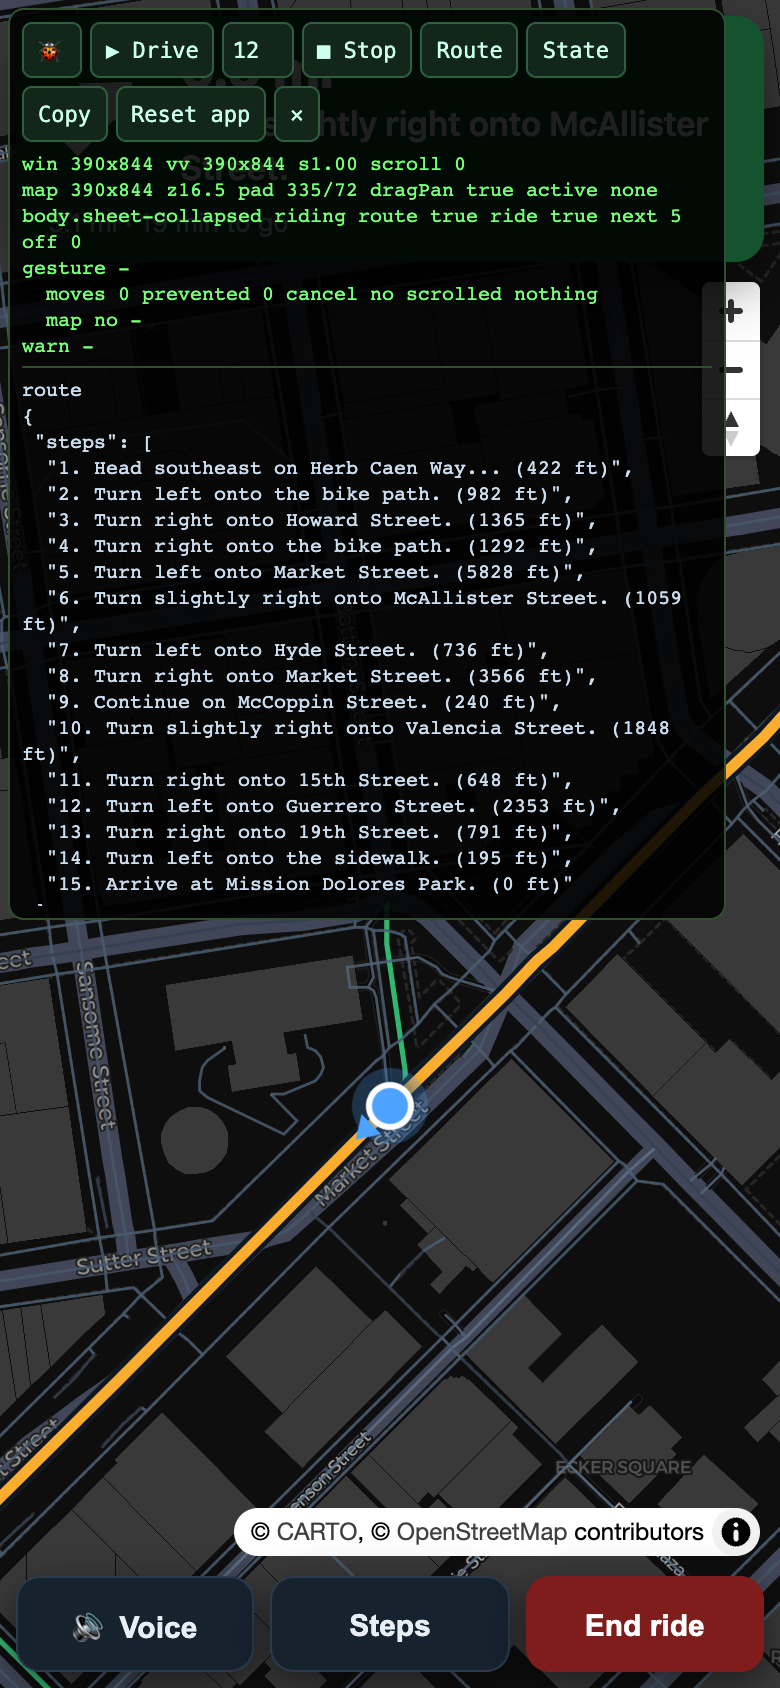
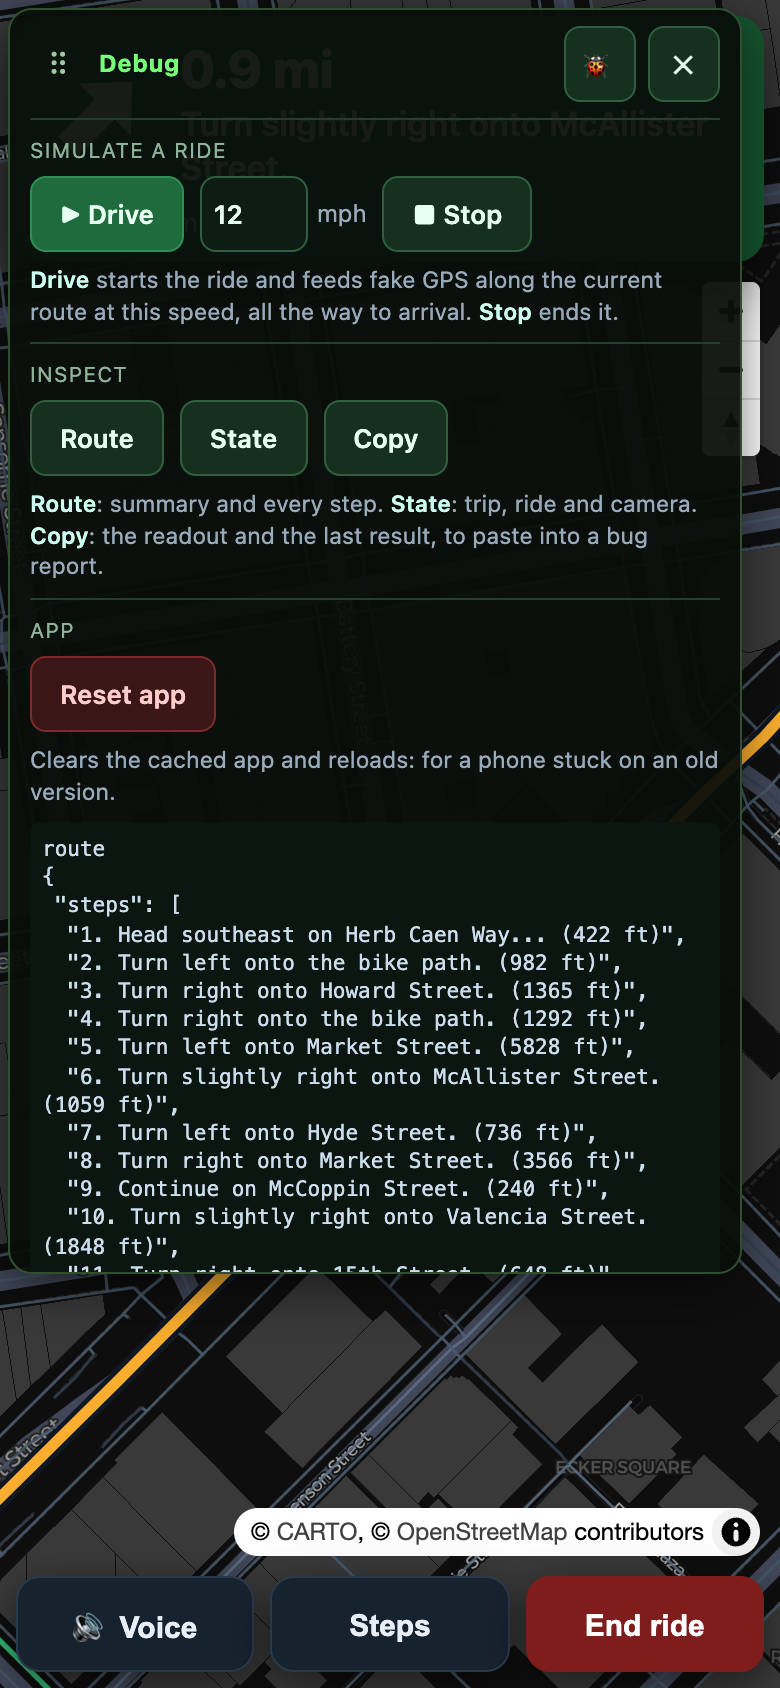
Debug panel: grouped, explained, roomier
The tools are grouped into sections with a caption and a line saying what
each button does: Simulate a ride (Drive, mph, Stop together), Inspect
(Route, State, Copy) and App (Reset app, styled as the one that reloads).
A header carries the grip, a title, minimize and close; bigger buttons with
more space between them; the live readout is collapsible; sections no
longer shrink (the panel scrolls), which had squeezed results to one line.

Changed region(s): [[0.0, 0.0, 0.9846, 0.7701], [0.5231, 0.0, 0.6769, 0.0616]]

diff --git a/web/debug.js b/web/debug.js
@@ -54,26 +54,40 @@
   // expand button stay, so it can still be moved out of the map's way.
   const PANEL_CSS = `
 #pev-debug-hud { position: fixed; left: 4px; top: calc(env(safe-area-inset-top) + 4px); z-index: 99999;
-  width: min(92vw, 430px); max-height: 70vh; display: flex; flex-direction: column; gap: 4px; padding: 6px;
-  background: rgba(0, 0, 0, 0.88); color: #7f7; font: 10px/1.3 ui-monospace, Menlo, monospace;
-  border: 1px solid #2f4f2f; border-radius: 8px; }
-#pev-debug-hud.min { width: auto; }
-#pev-debug-hud.min > :not(.pev-dbg-bar),
-#pev-debug-hud.min .pev-dbg-bar > :not(.pev-dbg-min):not(.pev-dbg-grip) { display: none; }
-#pev-debug-hud .pev-dbg-bar { display: flex; flex-wrap: wrap; gap: 4px; align-items: center; padding-right: 34px; }
-#pev-debug-hud.min .pev-dbg-bar { padding-right: 0; }
-/* Close sits in the panel's top-right corner, apart from the tools. */
-#pev-debug-hud .pev-dbg-close { position: absolute; top: 6px; right: 6px; min-width: 28px; padding: 4px 0; }
-#pev-debug-hud button, #pev-debug-hud input { font: 11px ui-monospace, Menlo, monospace; color: #cfe; background: #12261a;
-  border: 1px solid #2f5f3f; border-radius: 5px; padding: 4px 7px; min-height: 28px; }
-#pev-debug-hud input { width: 3.2em; padding: 4px; }
-#pev-debug-hud button:active { background: #234; }
-#pev-debug-hud pre { margin: 0; white-space: pre-wrap; overflow: auto; }
-#pev-debug-hud .pev-dbg-out { color: #cde; border-top: 1px solid #2f4f2f; padding-top: 4px; max-height: 32vh; }
-#pev-debug-hud .pev-dbg-readout { pointer-events: none; }
+  width: min(94vw, 400px); max-height: 75vh; overflow: auto; display: flex; flex-direction: column; gap: 8px;
+  padding: 8px 10px 10px; box-sizing: border-box;
+  background: rgba(8, 14, 10, 0.94); color: #cfe; font: 12px/1.35 -apple-system, system-ui, sans-serif;
+  border: 1px solid #2f4f2f; border-radius: 12px; box-shadow: 0 8px 24px rgba(0, 0, 0, 0.5); }
+/* Sections keep their height; the panel scrolls when they don't fit. */
+#pev-debug-hud > * { flex-shrink: 0; }
+#pev-debug-hud.min { width: auto; padding: 6px; }
+#pev-debug-hud.min > :not(.pev-dbg-head),
+#pev-debug-hud.min .pev-dbg-title, #pev-debug-hud.min .pev-dbg-close { display: none; }
+/* Header: grip, title, minimize, and close in the top-right corner. */
+#pev-debug-hud .pev-dbg-head { display: flex; align-items: center; gap: 6px; }
+#pev-debug-hud .pev-dbg-title { flex: 1; font-weight: 700; color: #7f7; letter-spacing: 0.3px; }
 #pev-debug-hud .pev-dbg-grip { cursor: grab; touch-action: none; user-select: none; -webkit-user-select: none;
-  color: #9c9; font-size: 16px; line-height: 1; padding: 4px 6px; border-radius: 5px; }
-#pev-debug-hud.dragging .pev-dbg-grip { cursor: grabbing; background: #234; }`;
+  color: #9c9; font-size: 18px; line-height: 1; padding: 6px 8px; border-radius: 6px; }
+#pev-debug-hud.dragging .pev-dbg-grip { cursor: grabbing; background: #234; }
+#pev-debug-hud .pev-dbg-min, #pev-debug-hud .pev-dbg-close { min-width: 36px; padding: 0; }
+/* Sections: a caption, the buttons, and one line saying what they do. */
+#pev-debug-hud section { border-top: 1px solid #23402b; padding-top: 8px; }
+#pev-debug-hud .pev-dbg-cap { font-size: 10.5px; text-transform: uppercase; letter-spacing: 0.6px; color: #8fb39a; margin-bottom: 6px; }
+#pev-debug-hud .pev-dbg-row { display: flex; flex-wrap: wrap; gap: 8px; align-items: center; }
+#pev-debug-hud .pev-dbg-help { margin-top: 6px; color: #9ab; font-size: 11.5px; }
+#pev-debug-hud .pev-dbg-help b { color: #cfe; font-weight: 600; }
+#pev-debug-hud button { font: 600 13px -apple-system, system-ui, sans-serif; color: #e6fff0; background: #16301f;
+  border: 1px solid #2f5f3f; border-radius: 8px; padding: 0 14px; min-height: 38px; cursor: pointer; }
+#pev-debug-hud button:active { background: #24503a; }
+#pev-debug-hud .pev-dbg-go { background: #1f6b3d; border-color: #2f8f55; }
+#pev-debug-hud .pev-dbg-danger { background: #3a1616; border-color: #7f2a2a; color: #fcc; }
+#pev-debug-hud label.pev-dbg-speed { display: inline-flex; align-items: center; gap: 4px; color: #9ab; }
+#pev-debug-hud input { font: 600 13px -apple-system, system-ui, sans-serif; color: #e6fff0; background: #0e1d14;
+  border: 1px solid #2f5f3f; border-radius: 8px; width: 4.2em; min-height: 38px; padding: 0 6px; box-sizing: border-box; }
+#pev-debug-hud details summary { cursor: pointer; }
+#pev-debug-hud pre { margin: 0; white-space: pre-wrap; overflow: auto; font: 10.5px/1.35 ui-monospace, Menlo, monospace; }
+#pev-debug-hud .pev-dbg-readout { color: #7f7; pointer-events: none; margin-top: 6px; }
+#pev-debug-hud .pev-dbg-out { color: #cde; background: #0b1610; border-radius: 6px; padding: 6px; max-height: 30vh; }`;
 
   let output = null; // the panel's output box
   function show(title, value) {
@@ -92,56 +106,96 @@
       style.textContent = PANEL_CSS;
       document.head.appendChild(style);
     }
-    const panel = document.createElement("div");
-    panel.id = "pev-debug-hud";
-    panel.setAttribute("role", "region");
-    panel.setAttribute("aria-label", "Debug panel");
-    const bar = document.createElement("div");
-    bar.className = "pev-dbg-bar";
+    const el = (tag, cls, text) => {
+      const n = document.createElement(tag);
+      if (cls) n.className = cls;
+      if (text != null) n.textContent = text;
+      return n;
+    };
     const button = (label, title, fn, cls) => {
-      const b = document.createElement("button");
+      const b = el("button", cls, label);
       b.type = "button";
-      b.textContent = label;
       b.title = title;
-      if (cls) b.className = cls;
       b.addEventListener("click", (e) => {
         e.stopPropagation();
         fn();
       });
-      bar.appendChild(b);
       return b;
     };
-    const mph = document.createElement("input");
+    // One group of tools: caption, buttons, and what they do.
+    const section = (caption, controls, help) => {
+      const sec = el("section");
+      const row = el("div", "pev-dbg-row");
+      row.append(...controls);
+      const h = el("div", "pev-dbg-help");
+      h.innerHTML = help;
+      sec.append(el("div", "pev-dbg-cap", caption), row, h);
+      return sec;
+    };
+
+    const panel = el("div");
+    panel.id = "pev-debug-hud";
+    panel.setAttribute("role", "region");
+    panel.setAttribute("aria-label", "Debug panel");
+
+    const grip = el("span", "pev-dbg-grip", "⠿");
+    grip.title = "Drag to move the panel";
+    grip.setAttribute("aria-hidden", "true");
+    const head = el("div", "pev-dbg-head");
+    head.append(
+      grip,
+      el("span", "pev-dbg-title", "Debug"),
+      button("🐞", "Minimize / expand the panel", () => {
+        panel.classList.toggle("min");
+        placePanel(panel); // a wider panel may now run off the screen
+      }, "pev-dbg-min"),
+      button("✕", "Close the panel", () => window.pev.hud(false), "pev-dbg-close")
+    );
+
+    const mph = el("input");
     mph.type = "number";
     mph.min = "1";
     mph.max = "200";
     mph.value = "12";
-    mph.title = "Simulated speed (mph)";
+    mph.inputMode = "numeric";
     mph.setAttribute("aria-label", "Simulated speed in mph");
-    const grip = document.createElement("span");
-    grip.className = "pev-dbg-grip";
-    grip.textContent = "⠿";
-    grip.title = "Drag to move the panel";
-    grip.setAttribute("aria-hidden", "true");
-    bar.appendChild(grip);
-    button("🐞", "Minimize / expand the panel", () => {
-      panel.classList.toggle("min");
-      placePanel(panel); // a wider panel may now run off the screen
-    }, "pev-dbg-min");
-    button("▶ Drive", "Ride the current route with simulated GPS", () => show("drive", drive(Number(mph.value) || 12)));
-    bar.appendChild(mph);
-    button("■ Stop", "Stop the simulated drive", () => show("stop", stop() || "Stopped."));
-    button("Route", "Current route summary and steps", () => show("route", route(true)));
-    button("State", "App, ride and camera snapshot", () => show("state", snapshot()));
-    button("Copy", "Copy the readout and the last result", () => copy(panel));
-    button("Reset app", "Drop the service worker and caches, then reload", () => resetApp());
-    button("✕", "Close the panel", () => window.pev.hud(false), "pev-dbg-close");
-    const readout = document.createElement("pre");
-    readout.className = "pev-dbg-readout";
-    output = document.createElement("pre");
-    output.className = "pev-dbg-out";
+    const speed = el("label", "pev-dbg-speed");
+    speed.append(mph, "mph");
+    const rideSec = section(
+      "Simulate a ride",
+      [
+        button("▶ Drive", "Ride the current route with simulated GPS", () => show("drive", drive(Number(mph.value) || 12)), "pev-dbg-go"),
+        speed,
+        button("■ Stop", "Stop the simulated drive", () => show("stop", stop() || "Stopped.")),
+      ],
+      "<b>Drive</b> starts the ride and feeds fake GPS along the current route at this speed, all the way to arrival. <b>Stop</b> ends it."
+    );
+    const inspect = section(
+      "Inspect",
+      [
+        button("Route", "Current route summary and steps", () => show("route", route(true))),
+        button("State", "App, ride and camera snapshot", () => show("state", snapshot())),
+        button("Copy", "Copy the readout and the last result", () => copy(panel)),
+      ],
+      "<b>Route</b>: summary and every step. <b>State</b>: trip, ride and camera. <b>Copy</b>: the readout and the last result, to paste into a bug report."
+    );
+    const app = section(
+      "App",
+      [button("Reset app", "Drop the service worker and caches, then reload", () => resetApp(), "pev-dbg-danger")],
+      "Clears the cached app and reloads: for a phone stuck on an old version."
+    );
+
+    output = el("pre", "pev-dbg-out");
     output.hidden = true;
-    panel.append(bar, readout, output);
+    const readout = el("pre", "pev-dbg-readout");
+    const live = el("details", "pev-dbg-live");
+    live.open = true;
+    const summary = el("summary", "pev-dbg-cap", "Live readout");
+    live.append(summary, readout);
+    const liveSec = el("section");
+    liveSec.append(live);
+
+    panel.append(head, rideSec, inspect, app, output, liveSec);
     document.body.appendChild(panel);
     makeDraggable(panel, grip);
     placePanel(panel, loadPos());

diff --git a/web/index.html b/web/index.html
@@ -15,7 +15,7 @@
   <script src="https://cdn.jsdelivr.net/npm/maplibre-gl@4.7.1/dist/maplibre-gl.js"></script>
   <link rel="stylesheet" href="https://cdn.jsdelivr.net/npm/maplibre-gl@4.7.1/dist/maplibre-gl.css" />
   <!-- style.css comes after maplibre-gl.css so our popup overrides win at equal specificity -->
-  <link rel="stylesheet" href="style.css?v=49" />
+  <link rel="stylesheet" href="style.css?v=50" />
 </head>
 <body>
   <aside id="sidebar">
@@ -126,8 +126,8 @@
     </div>
     <ol id="steps"></ol>
   </div>
-  <script src="app.js?v=49"></script>
+  <script src="app.js?v=50"></script>
   <!-- Console developer tools (pev.help()); idle until called. -->
-  <script src="debug.js?v=49"></script>
+  <script src="debug.js?v=50"></script>
 </body>
 </html>

diff --git a/web/sw.js b/web/sw.js
@@ -3,14 +3,14 @@
 // /data GeoJSON bypass this worker — routes and POIs must never be stale.
 // (The big display road layer, /data/roads.display.geojson, is cached by the
 // browser's HTTP cache instead: the server sends Cache-Control + ETag.)
-const CACHE = "pev-buddy-v49";
+const CACHE = "pev-buddy-v50";
 
 const SHELL = [
   "/",
   "/index.html",
-  "/style.css?v=49",
-  "/app.js?v=49",
-  "/debug.js?v=49",
+  "/style.css?v=50",
+  "/app.js?v=50",
+  "/debug.js?v=50",
   "/manifest.webmanifest",
   "/icons/icon-192.png",
   "/icons/icon-512.png",

diff --git a/tests/test_frontend.py b/tests/test_frontend.py
@@ -248,14 +248,14 @@ def test_debug_panel_buttons_and_title_taps(ride_page):
         page.click("#sidebar header h1")
     page.wait_for_selector("#pev-debug-hud")
     route_via_ui(page)
-    page.click("#pev-debug-hud >> text=Route")
+    page.click("#pev-debug-hud button:text-is(\"Route\")")
     out = page.text_content("#pev-debug-hud .pev-dbg-out")
     assert out.startswith("route") and '"miles"' in out and "steps" in out
-    page.click("#pev-debug-hud >> text=State")
+    page.click("#pev-debug-hud button:text-is(\"State\")")
     assert '"routeShown": true' in page.text_content("#pev-debug-hud .pev-dbg-out")
     # Drive from the panel: a fast simulated ride reaches the destination.
     page.fill("#pev-debug-hud input", "200")
-    page.click("#pev-debug-hud >> text=▶ Drive")
+    page.click("#pev-debug-hud button:text-is(\"▶ Drive\")")
     page.wait_for_function("() => ride.arrived", timeout=15000)
     # Minimize keeps only the bug button; close removes the panel.
     page.click("#pev-debug-hud .pev-dbg-min")
@@ -263,8 +263,8 @@ def test_debug_panel_buttons_and_title_taps(ride_page):
     page.click("#pev-debug-hud .pev-dbg-min")
     # Close sits in the top-right corner.
     panel, close = rect(page, "#pev-debug-hud"), rect(page, "#pev-debug-hud .pev-dbg-close")
-    assert panel["right"] - close["right"] < 10 and close["top"] - panel["top"] < 10, (panel, close)
-    page.click("#pev-debug-hud >> text=✕")
+    assert panel["right"] - close["right"] < 20 and close["top"] - panel["top"] < 20, (panel, close)
+    page.click("#pev-debug-hud .pev-dbg-close")
     assert not page.is_visible("#pev-debug-hud")
 
 

diff --git a/README.md b/README.md
@@ -304,14 +304,22 @@ browser console (on an iPhone: Safari → Develop → your iPhone → the page):
 | `pev.resetApp()` | drops the service worker and caches, then reloads (a phone stuck on an old build) |
 
 **The debug panel** works without a console: tap the **PEV Buddy** title five
-times (also in the installed app), or add `?debug` to the URL. It shows a
-live readout (viewport and scroll, map size, zoom and padding, active gesture
-handlers, the last touch gesture and whether the map or iOS took it, recent
-camera calls and who made them, the last console warning) and buttons for
-**Drive** (with a speed box), **Stop**, **Route**, **State**, **Copy** (the
-readout and the last result, to paste into a bug report), **Reset app**,
-minimize (🐞) and close. Drag the **⠿** grip to move it out of the way, minimized
-too; it stays on screen and keeps its place across reloads.
+times (also in the installed app), or add `?debug` to the URL. Its tools are
+grouped, each group saying what its buttons do:
+
+- **Simulate a ride:** **▶ Drive** at the speed in the mph box (rides the
+  current route with fake GPS, to arrival) and **■ Stop**.
+- **Inspect:** **Route** (summary and every step), **State** (trip, ride and
+  camera), **Copy** (the readout and the last result, to paste into a bug
+  report). Results show in the panel.
+- **App:** **Reset app** (clears the cached app and reloads).
+- **Live readout** (collapsible): viewport and scroll, map size, zoom and
+  padding, active gesture handlers, the last touch gesture and whether the map
+  or iOS took it, recent camera calls and who made them, the last console
+  warning.
+
+Drag the **⠿** grip to move the panel (minimized too); it stays on screen and
+keeps its place across reloads. **🐞** minimizes it and **✕** closes it.
 
 ## Deploy
 
